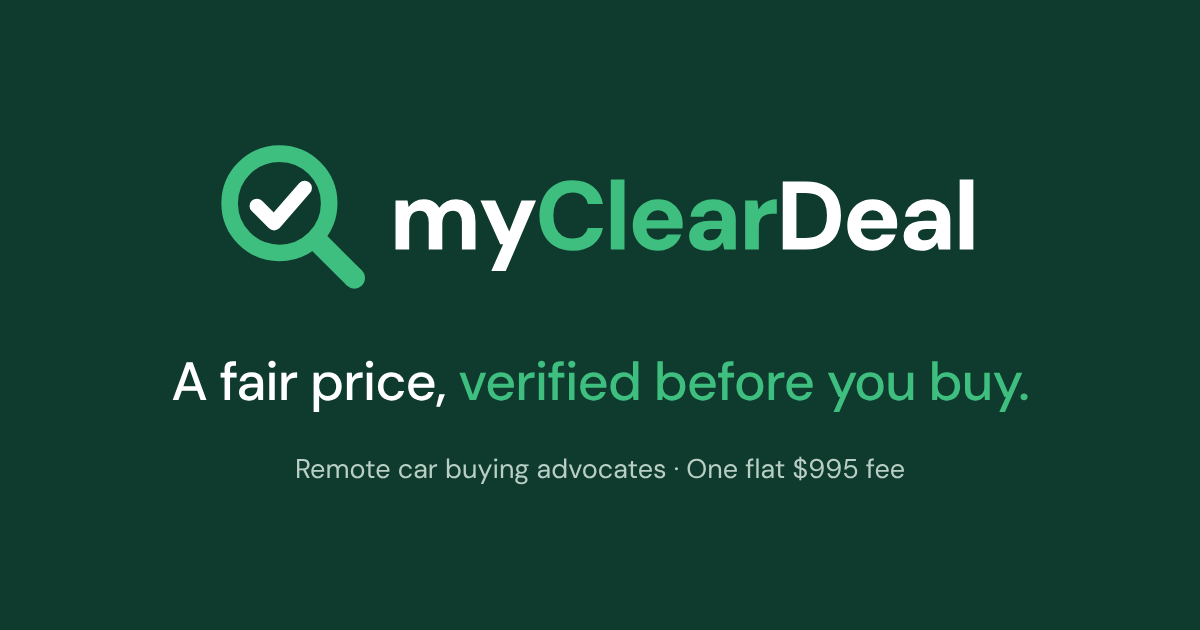
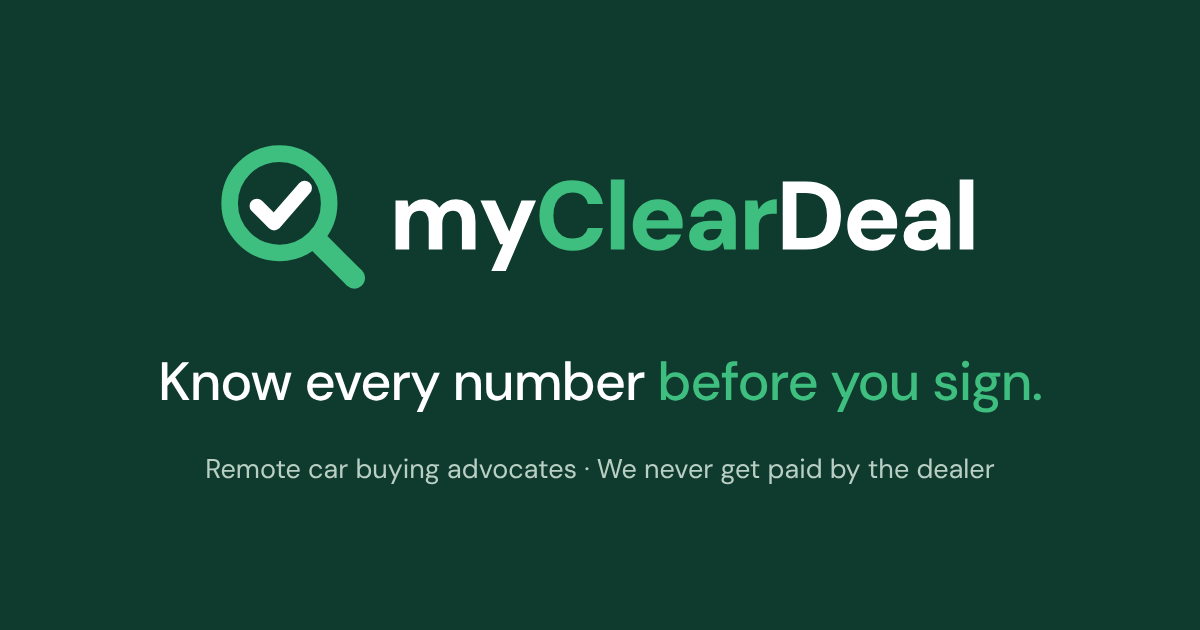
New headline 'Know every number before you sign', phone-first contact wording, drop F&I from buyer's guide
Claude-Session: https://claude.ai/code/session_017CWMKhRTNpriJ5bbExn9Vq

Changed region(s): [[0.1233, 0.573, 0.8633, 0.6635], [0.1542, 0.7238, 0.8325, 0.7841]]

diff --git a/guide.html b/guide.html
@@ -45,7 +45,7 @@
 
 <section class="section" id="decoder"><div class="wrap">
 <div class="shead"><h2>Every line on your quote, <em>in plain English.</em></h2><p class="lede">Most dealer quotes use the same handful of lines. Here is what each one is and whether it moves.</p></div>
-<div class="decoder" role="table" aria-label="Common dealer quote lines"><div class="dec-row head" role="row"><span role="columnheader">Line on your quote</span><span role="columnheader">Status</span><span role="columnheader">What to know</span></div><div class="dec-row" role="row"><b role="cell">Vehicle selling price</b><span role="cell" class="st neg">Negotiable</span><p role="cell">The main number. Compare it to what the same model, trim and miles sell for near you.</p></div><div class="dec-row" role="row"><b role="cell">Market adjustment</b><span role="cell" class="st neg">Negotiable</span><p role="cell">A markup on top of the sticker, also called ADM. Often the first line to challenge.</p></div><div class="dec-row" role="row"><b role="cell">Pre-installed add-ons</b><span role="cell" class="st opt">Optional</span><p role="cell">Nitrogen, VIN etching, paint or fabric protection, appearance packages. You can ask for them to come off.</p></div><div class="dec-row" role="row"><b role="cell">Doc fee</b><span role="cell" class="st neg">Ask first</span><p role="cell">Set by the dealer and varies widely. Ask for it in writing before you visit so it is in the out-the-door number.</p></div><div class="dec-row" role="row"><b role="cell">Destination charge</b><span role="cell" class="st req">Usually fixed</span><p role="cell">Set by the manufacturer on new cars and printed on the window sticker.</p></div><div class="dec-row" role="row"><b role="cell">Taxes, tag and title</b><span role="cell" class="st req">Required</span><p role="cell">Set by your state and county. Check the math against your ZIP code.</p></div><div class="dec-row" role="row"><b role="cell">Your trade-in</b><span role="cell" class="st neg">Negotiable</span><p role="cell">Get it valued on its own, before or apart from the new car price.</p></div><div class="dec-row" role="row"><b role="cell">Warranties, GAP, service plans</b><span role="cell" class="st opt">Optional</span><p role="cell">Offered in the finance office after you agree on price. You can say no to every one.</p></div></div><p class="legend"><span class="st neg">Negotiable</span><span class="st opt">Optional</span><span class="st req">Required or fixed</span><span>General guide. Fees and rules vary by state and dealer.</span></p>
+<div class="decoder" role="table" aria-label="Common dealer quote lines"><div class="dec-row head" role="row"><span role="columnheader">Line on your quote</span><span role="columnheader">Status</span><span role="columnheader">What to know</span></div><div class="dec-row" role="row"><b role="cell">Vehicle selling price</b><span role="cell" class="st neg">Negotiable</span><p role="cell">The main number. Compare it to what the same model, trim and miles sell for near you.</p></div><div class="dec-row" role="row"><b role="cell">Market adjustment</b><span role="cell" class="st neg">Negotiable</span><p role="cell">A markup on top of the sticker, also called ADM. Often the first line to challenge.</p></div><div class="dec-row" role="row"><b role="cell">Pre-installed add-ons</b><span role="cell" class="st opt">Optional</span><p role="cell">Nitrogen, VIN etching, paint or fabric protection, appearance packages. You can ask for them to come off.</p></div><div class="dec-row" role="row"><b role="cell">Doc fee</b><span role="cell" class="st neg">Ask first</span><p role="cell">Set by the dealer and varies widely. Ask for it in writing before you visit so it is in the out-the-door number.</p></div><div class="dec-row" role="row"><b role="cell">Destination charge</b><span role="cell" class="st req">Usually fixed</span><p role="cell">Set by the manufacturer on new cars and printed on the window sticker.</p></div><div class="dec-row" role="row"><b role="cell">Taxes, tag and title</b><span role="cell" class="st req">Required</span><p role="cell">Set by your state and county. Check the math against your ZIP code.</p></div><div class="dec-row" role="row"><b role="cell">Your trade-in</b><span role="cell" class="st neg">Negotiable</span><p role="cell">Get it valued on its own, before or apart from the new car price.</p></div></div><p class="legend"><span class="st neg">Negotiable</span><span class="st opt">Optional</span><span class="st req">Required or fixed</span><span>General guide. Fees and rules vary by state and dealer.</span></p>
 </div></section>
 
 <section class="section alt" id="self-check"><div class="wrap">
@@ -62,7 +62,7 @@
 <section class="section" id="before-you-go"><div class="wrap">
 <div class="split">
 <div class="stack"><h2>Six things to do <em>before you visit.</em></h2><p class="lede">Do these and most dealer games stop working.</p></div>
-<div class="card t-mint"><ul class="checks"><li>Get pre-approved by your bank or credit union so you have a rate to compare</li><li>Ask for the out-the-door price in writing, not a monthly payment</li><li>Get your trade-in valued on its own, apart from the new car</li><li>Ask which add-ons are already installed and which can come off</li><li>Read the buyer's order line by line before you sign</li><li>Remember warranties, GAP and service plans are always optional</li></ul></div>
+<div class="card t-mint"><ul class="checks"><li>Ask for the out-the-door price in writing, not a monthly payment</li><li>Get your trade-in valued on its own, apart from the new car</li><li>Ask which add-ons are already installed and which can come off</li><li>Read the buyer's order line by line before you sign</li></ul></div>
 </div>
 </div></section>
 

diff --git a/how-it-works.html b/how-it-works.html
@@ -64,7 +64,7 @@
 
 <section class="section"><div class="wrap">
 <div class="shead"><h2>Four steps. <em>Your part stays small.</em></h2><p class="lede">Each step shows what you do and what our team handles, side by side.</p></div>
-<div class="phases"><article class="phase"><div class="phase-top"><span class="phase-num">1</span><span class="tag ok">Day 1</span></div><h3>Tell us what you want</h3><div class="roles"><div class="role"><b>You</b><span>Share the car, budget, trade and timeline on one free call.</span></div><div class="role we"><b>We</b><span>Build your plan and set a target price with you.</span></div></div><span class="st-chip">Fee confirmed first</span></article><article class="phase"><div class="phase-top"><span class="phase-num">2</span><span class="tag ok">We work</span></div><h3>We negotiate for you</h3><div class="roles"><div class="role"><b>You</b><span>Go about your day. We keep you updated by call, text or email.</span></div><div class="role we"><b>We</b><span>Source the car and negotiate price, fees and trade-in with dealers.</span></div></div><span class="st-chip">Checked against market data</span></article><article class="phase"><div class="phase-top"><span class="phase-num">3</span><span class="tag ok">You review</span></div><h3>Get a clear recap</h3><div class="roles"><div class="role"><b>You</b><span>Approve the written recap, or ask us to keep going.</span></div><div class="role we"><b>We</b><span>Put the out-the-door price, fees, trade-in and market check in writing.</span></div></div><span class="st-chip">Nothing moves without your OK</span></article><article class="phase"><div class="phase-top"><span class="phase-num">4</span><span class="tag ok">Delivery</span></div><h3>Sign and drive</h3><div class="roles"><div class="role"><b>You</b><span>Make one trip to sign, or take delivery.</span></div><div class="role we"><b>We</b><span>Check the buyer's order matches your recap, line by line.</span></div></div><span class="st-chip">One call away until you drive off</span></article></div>
+<div class="phases"><article class="phase"><div class="phase-top"><span class="phase-num">1</span><span class="tag ok">Day 1</span></div><h3>Tell us what you want</h3><div class="roles"><div class="role"><b>You</b><span>Share the car, budget, trade and timeline on one free call.</span></div><div class="role we"><b>We</b><span>Build your plan and set a target price with you.</span></div></div><span class="st-chip">Fee confirmed first</span></article><article class="phase"><div class="phase-top"><span class="phase-num">2</span><span class="tag ok">We work</span></div><h3>We negotiate for you</h3><div class="roles"><div class="role"><b>You</b><span>Go about your day. We call you with updates, and text or email when that is easier.</span></div><div class="role we"><b>We</b><span>Source the car and negotiate price, fees and trade-in with dealers.</span></div></div><span class="st-chip">Checked against market data</span></article><article class="phase"><div class="phase-top"><span class="phase-num">3</span><span class="tag ok">You review</span></div><h3>Get a clear recap</h3><div class="roles"><div class="role"><b>You</b><span>Approve the written recap, or ask us to keep going.</span></div><div class="role we"><b>We</b><span>Put the out-the-door price, fees, trade-in and market check in writing.</span></div></div><span class="st-chip">Nothing moves without your OK</span></article><article class="phase"><div class="phase-top"><span class="phase-num">4</span><span class="tag ok">Delivery</span></div><h3>Sign and drive</h3><div class="roles"><div class="role"><b>You</b><span>Make one trip to sign, or take delivery.</span></div><div class="role we"><b>We</b><span>Check the buyer's order matches your recap, line by line.</span></div></div><span class="st-chip">One call away until you drive off</span></article></div>
 </div></section>
 
 <section class="section alt" id="scope"><div class="wrap">

diff --git a/index.html b/index.html
@@ -34,9 +34,9 @@
 <section class="hero"><div class="wrap hero-grid">
 <div class="hero-copy">
 <p class="promise"><i aria-hidden="true"></i><span>We work for you. <b>We never get paid by the dealer.</b></span></p>
-<h1><span class="ln"><span class="ln-in">Know it's</span></span><span class="ln"><span class="ln-in">a fair deal</span></span><span class="ln"><span class="ln-in"><em>before you sign.</em></span></span></h1>
+<h1><span class="ln"><span class="ln-in">Know every</span></span><span class="ln"><span class="ln-in">number</span></span><span class="ln"><span class="ln-in"><em>before you sign.</em></span></span></h1>
 <p class="rot-line">For your next <span class="rotator" data-rotator><span>SUV.</span><span>truck.</span><span>sedan.</span><span>lease.</span><span>used car.</span></span></p>
-<p class="lede">We negotiate your car's price, dealer fees and trade-in for you, keeping you updated by call, text or email, then check every number against real market data. You see the out-the-door price in writing before you agree to anything.</p>
+<p class="lede">We negotiate your car's price, dealer fees and trade-in for you, keeping you updated by phone, text or email. Each one is checked against real market data, and you see the out-the-door price in writing before you agree to anything.</p>
 <div class="btn-row"><a class="btn btn-primary btn-lg" href="start.html">Start my deal <svg aria-hidden="true" viewBox="0 0 24 24" fill="none" stroke="currentColor" stroke-width="2.2" stroke-linecap="round" stroke-linejoin="round"><path d="M5 12h14"/><path d="M13 6l6 6-6 6"/></svg></a><a class="btn btn-ghost btn-lg" href="start.html#check">Review my quote</a></div>
 <ul class="checks inline"><li>New, used and leases</li><li>Trade-in included</li><li>Everything in writing</li></ul>
 </div>
@@ -138,7 +138,7 @@
 <ol class="steps">
 <li><strong>Send your quote</strong><p>Type in the key numbers, or use the full form to add every line.</p></li>
 <li><strong>We review it by hand</strong><p>Price, fees, add-ons and trade-in, checked against market data.</p></li>
-<li><strong>We follow up</strong><p>By text, call or email, whichever you prefer.<span data-turnaround> Usually within <span data-turnaround-text></span>.</span></p></li>
+<li><strong>We follow up</strong><p>By phone, text or email, whichever you prefer.<span data-turnaround> Usually within <span data-turnaround-text></span>.</span></p></li>
 </ol>
 </div>
 <form class="form" name="quote-check-home" method="POST" data-lead-form data-success="Got it. A member of our team will review your quote and follow up." novalidate>

diff --git a/start.html b/start.html
@@ -44,7 +44,7 @@
 <div class="plan featured" id="fee"><span class="badge">Step 1 &middot; Know the fee</span>
 <div class="price"><sup>$</sup>995</div>
 <p class="price-note"><strong>One flat fee. One car.</strong> Buy or lease, new or used. The same price for everyone, confirmed on your free call before any work starts.</p>
-<ul class="checks"><li>Free consultation call to build your plan</li><li>Vehicle price and dealer fees negotiated</li><li>Trade-in included, no extra charge</li><li>Price checked against market data</li><li>A written out-the-door recap before you agree</li><li>Call, text and email support until you drive away</li></ul>
+<ul class="checks"><li>Free consultation call to build your plan</li><li>Vehicle price and dealer fees negotiated</li><li>Trade-in included, no extra charge</li><li>Price checked against market data</li><li>A written out-the-door recap before you agree</li><li>Phone support until you drive away, plus text and email</li></ul>
 <div class="never" aria-label="What you will never pay"><span>No % of savings</span><span>No dealer kickbacks</span><span>No tiers or add-ons</span><span>No hidden fees</span></div>
 </div>
 <p class="fine">No payment is taken on this page. We confirm the fee with you on your free consultation call, before any work begins.</p>
@@ -118,8 +118,8 @@
 <label class="field full">Out-the-door price quoted<input type="text" name="otd-price" inputmode="decimal" placeholder="If you have it"></label>
 <label class="field">When do you plan to sign?<select name="sign-by"><option value="">Choose one</option><option>Within 48 hours</option><option>This week</option><option>Within a month</option><option>Not sure yet</option></select></label>
 <fieldset><legend>Best way to reach you</legend><div class="choices">
-<label class="choice"><input type="radio" name="contact-pref" value="Text"><span>Text</span></label>
 <label class="choice"><input type="radio" name="contact-pref" value="Call"><span>Call</span></label>
+<label class="choice"><input type="radio" name="contact-pref" value="Text"><span>Text</span></label>
 <label class="choice"><input type="radio" name="contact-pref" value="Email"><span>Email</span></label>
 </div></fieldset>
 <label class="field full">Fees, add-ons and trade offer<textarea name="notes" placeholder="List the fees and add-ons on the quote, your trade-in offer, or anything that feels off"></textarea></label>

diff --git a/pricing.html b/pricing.html
@@ -48,7 +48,7 @@
 <div class="plan featured" id="fee"><span class="badge">One plan, everyone</span>
 <div class="price"><sup>$</sup>995</div>
 <p class="price-note"><strong>One flat fee. One car.</strong> Buy or lease, new or used. The same price for everyone, confirmed on your free call before any work starts.</p>
-<ul class="checks"><li>Free consultation call to build your plan</li><li>Vehicle price and dealer fees negotiated</li><li>Trade-in included, no extra charge</li><li>Price checked against market data</li><li>A written out-the-door recap before you agree</li><li>Call, text and email support until you drive away</li></ul>
+<ul class="checks"><li>Free consultation call to build your plan</li><li>Vehicle price and dealer fees negotiated</li><li>Trade-in included, no extra charge</li><li>Price checked against market data</li><li>A written out-the-door recap before you agree</li><li>Phone support until you drive away, plus text and email</li></ul>
 <div class="never" aria-label="What you will never pay"><span>No % of savings</span><span>No dealer kickbacks</span><span>No tiers or add-ons</span><span>No hidden fees</span></div>
 </div>
 <div class="stack">
